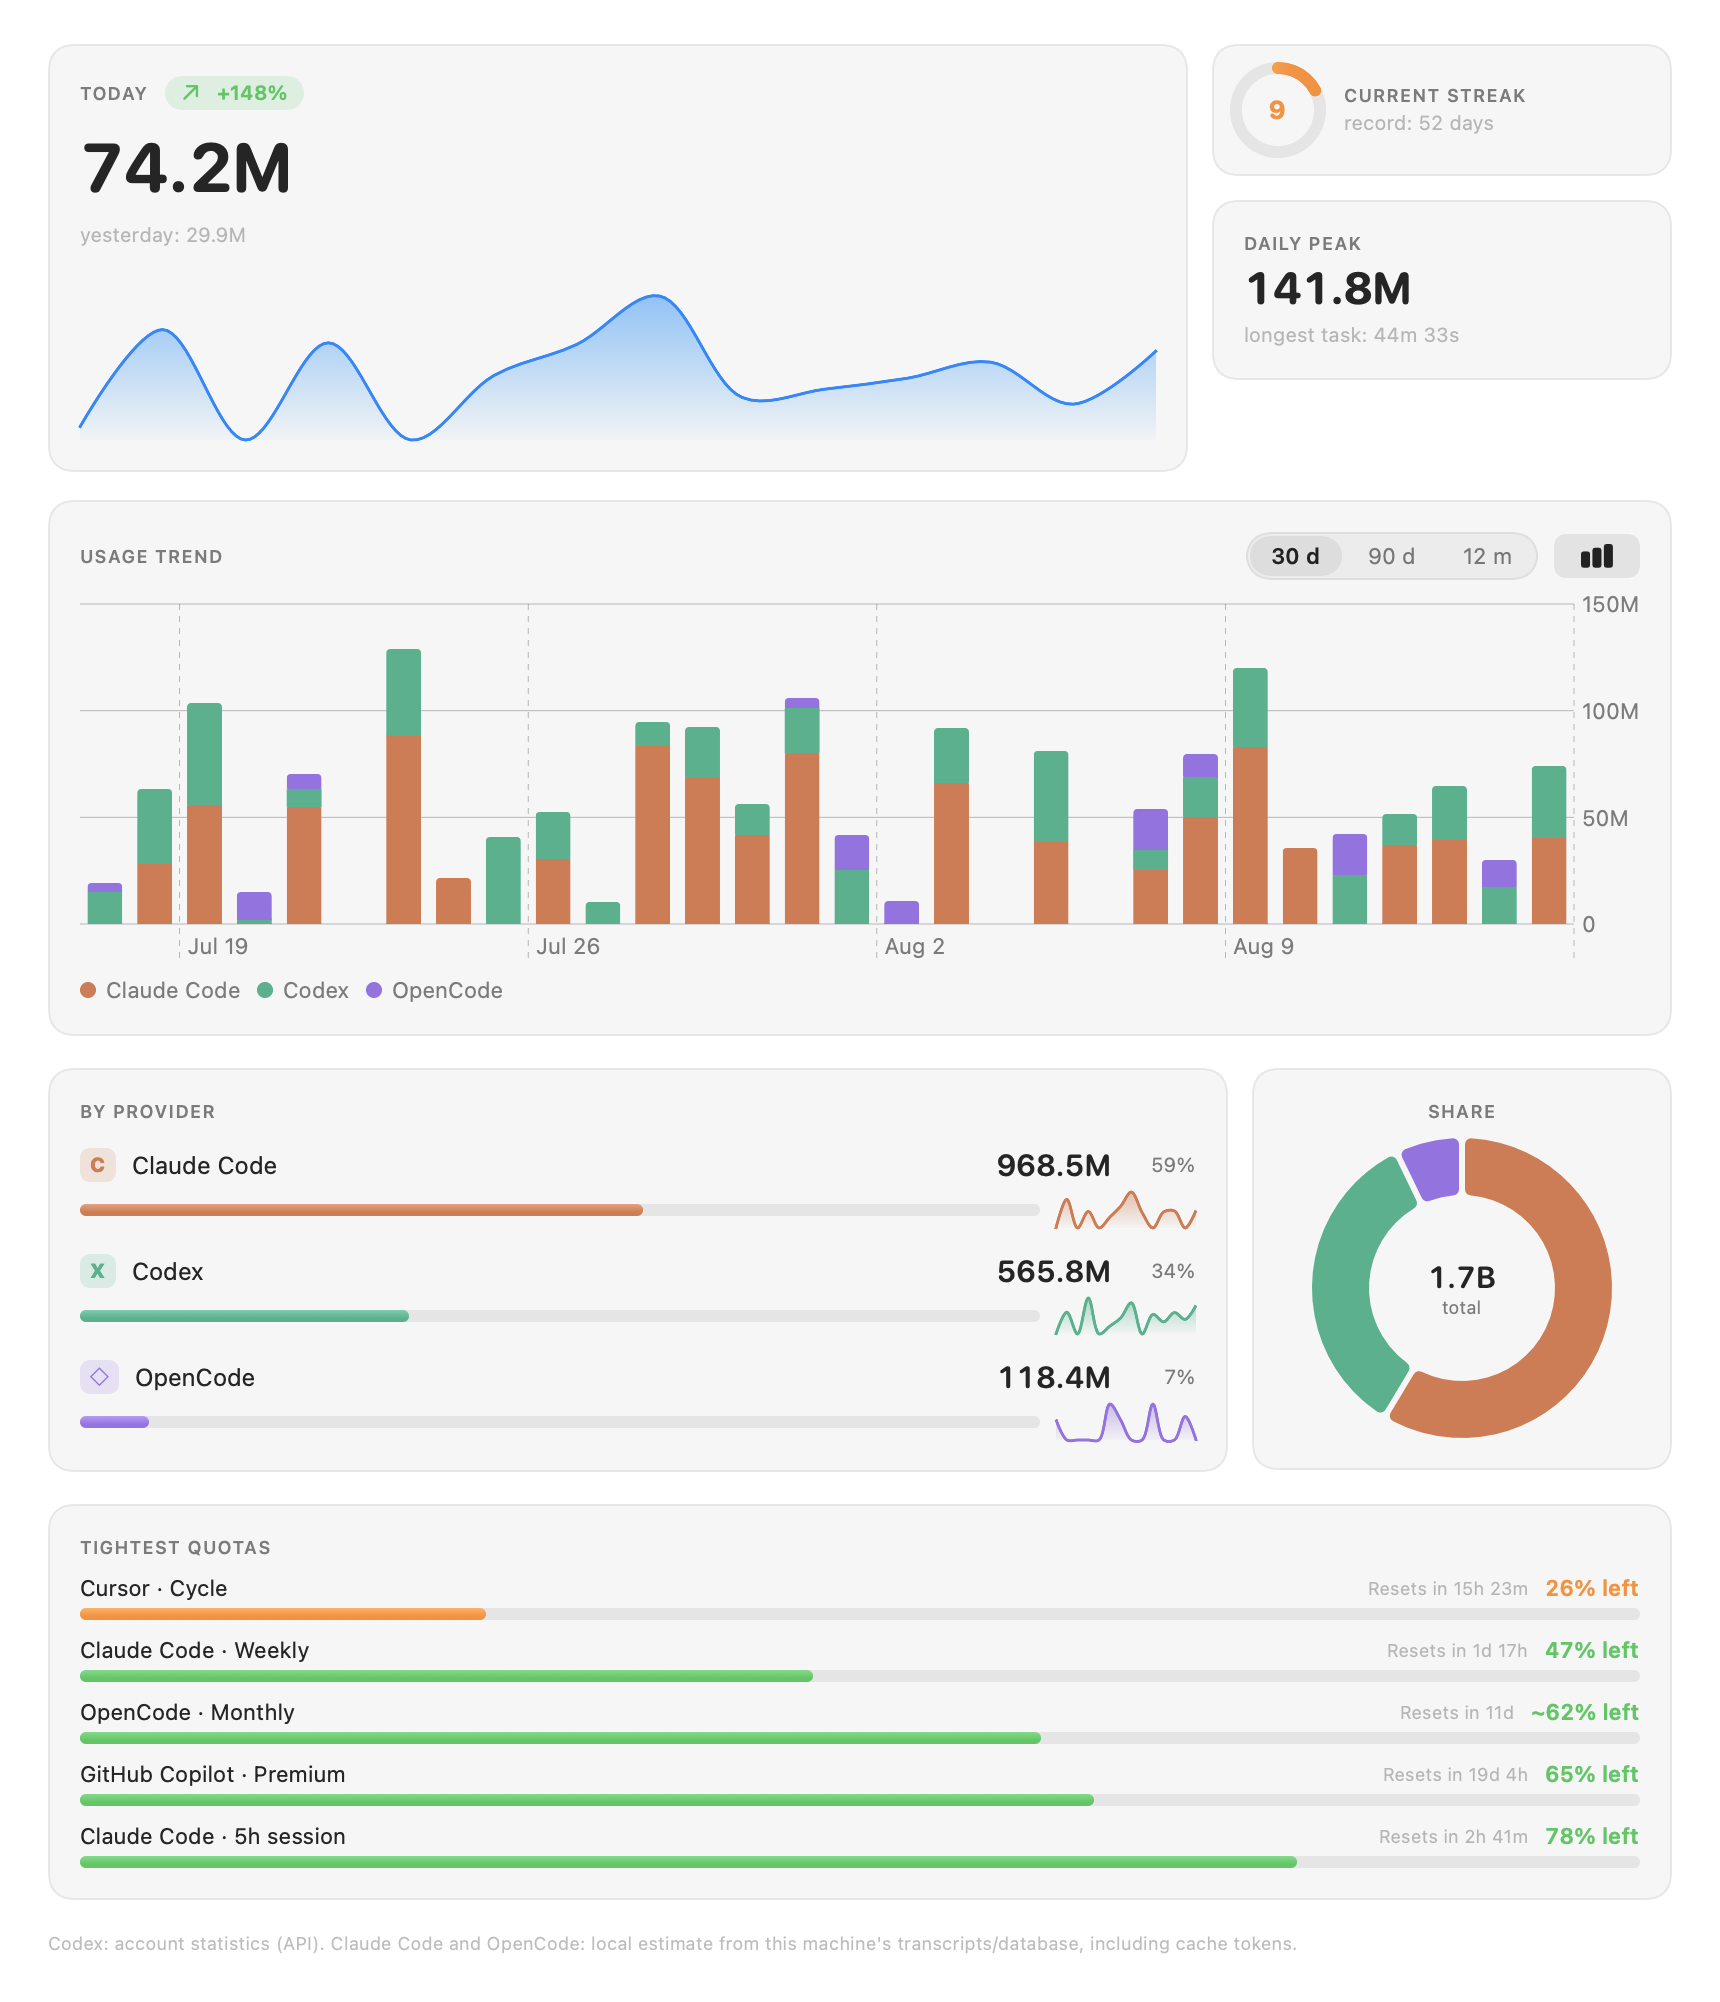
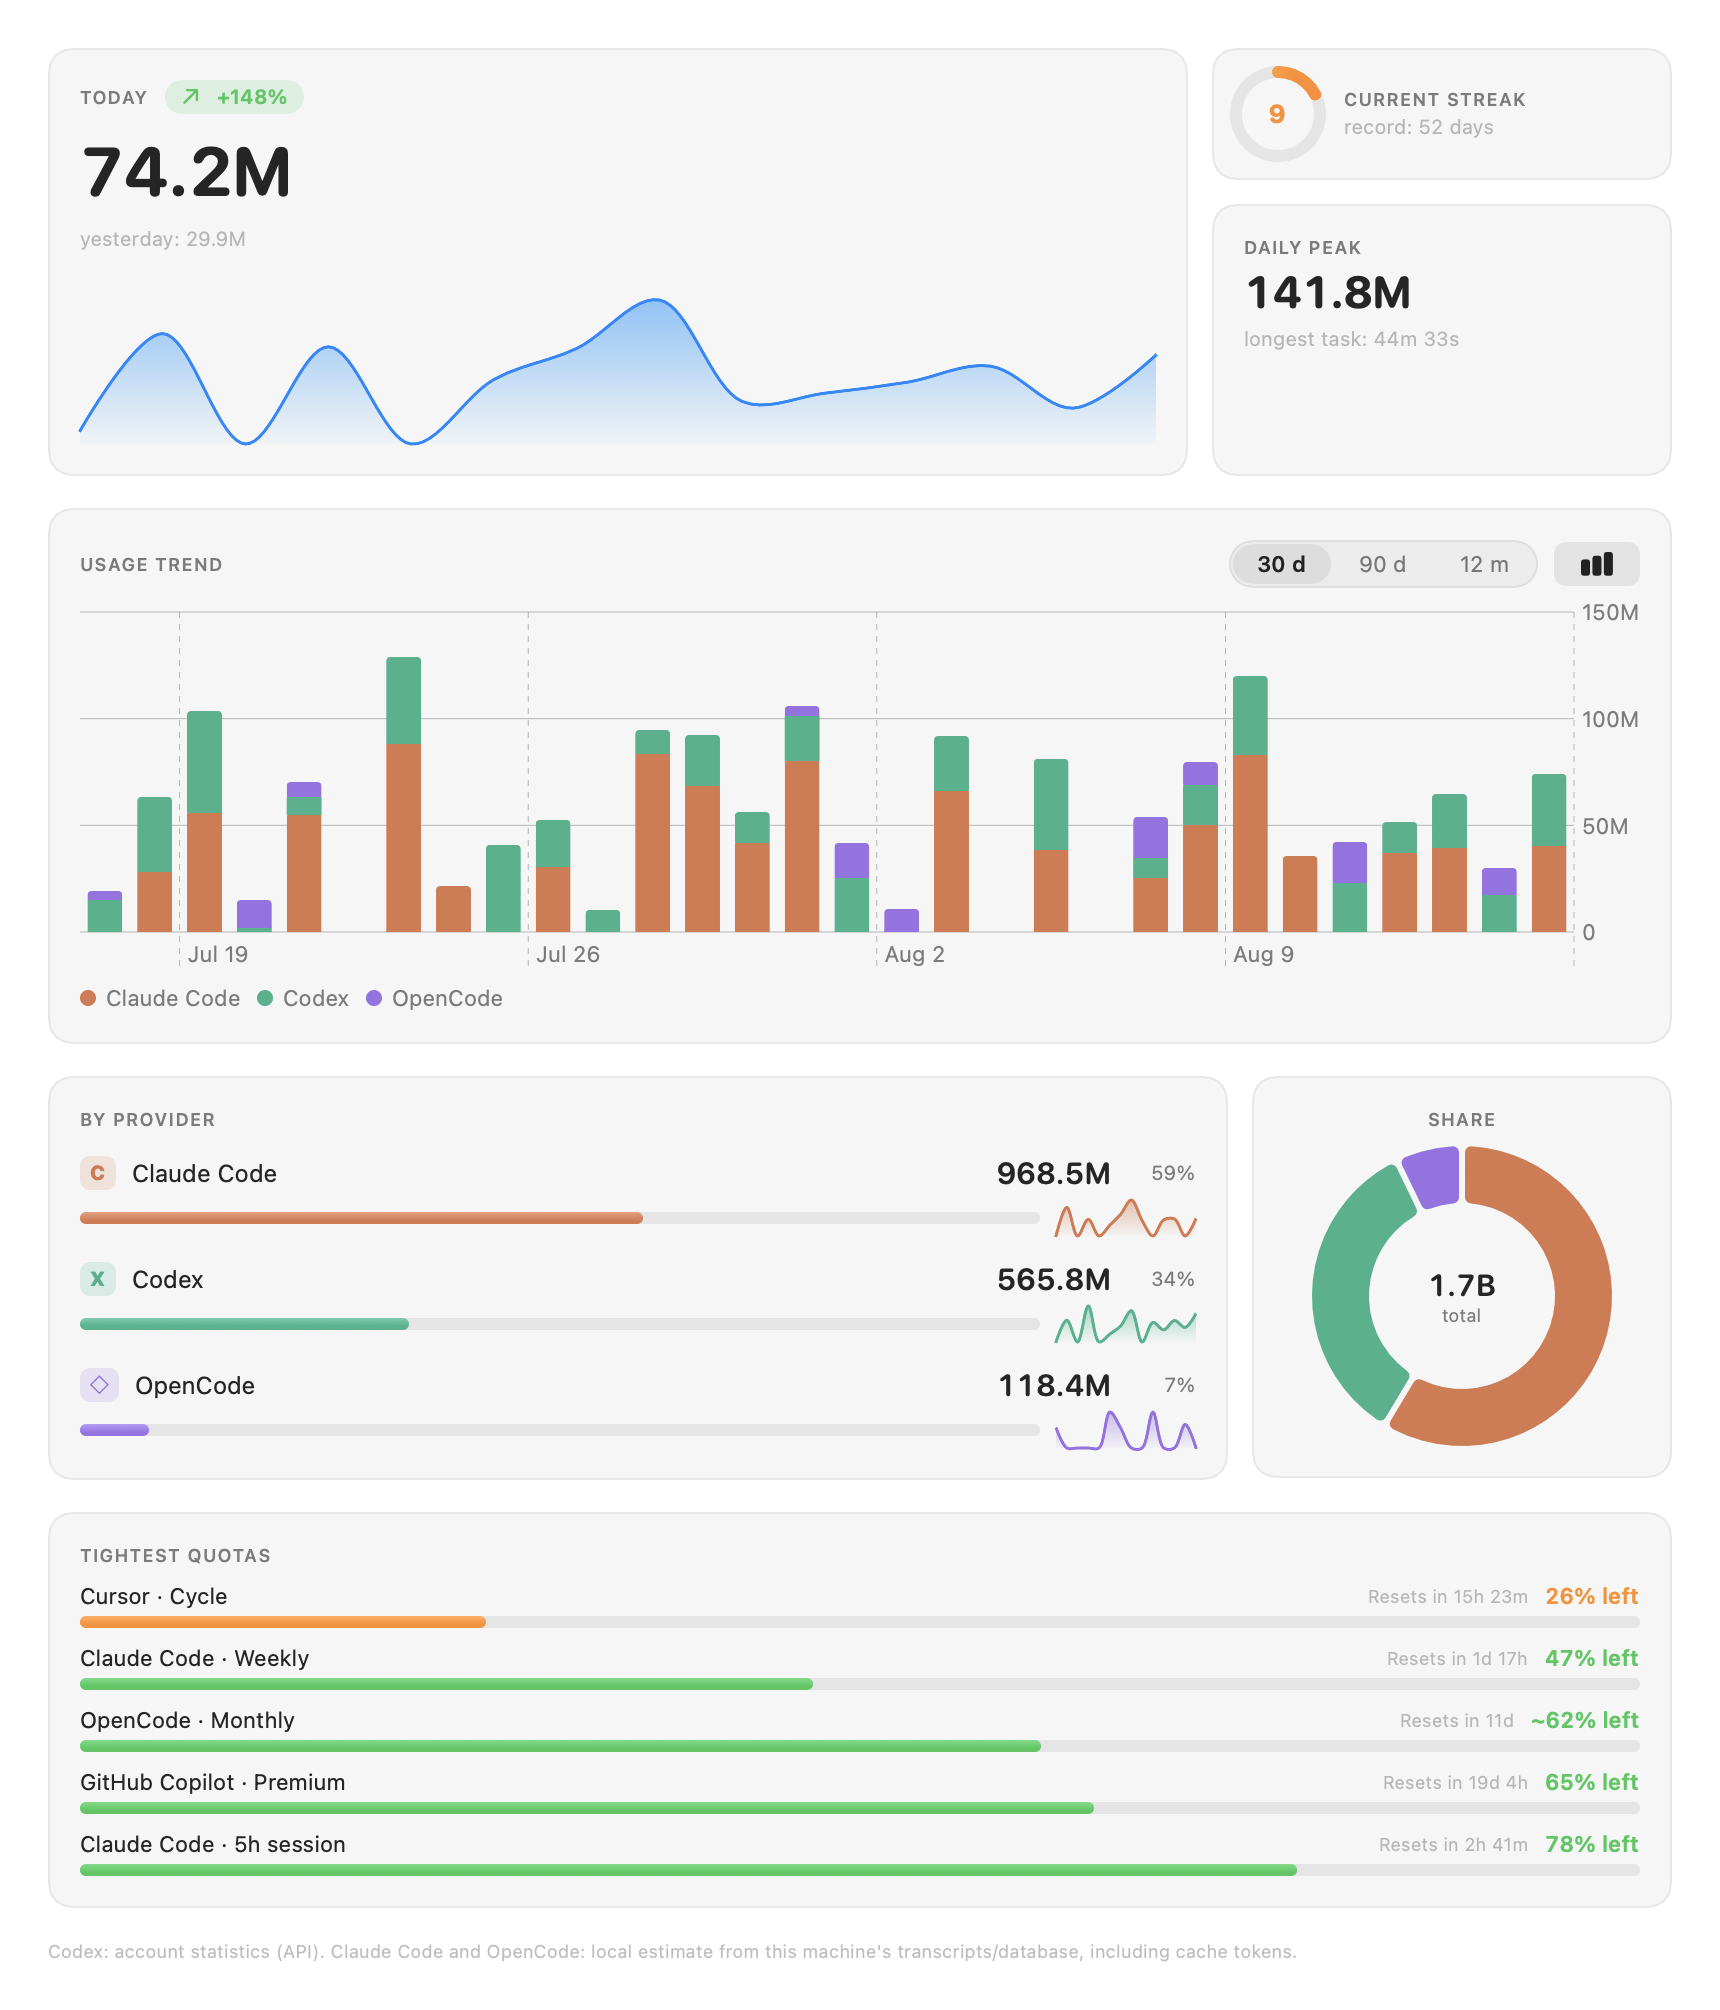
fix(ui): herói alinha por dentro do card e o segmentado volta a ser nativo
Revisão de qualidade da Task 8, três achados.

1. O vão de 46 pt sob a coluna direita do herói não era falta de altura: o
   .frame(maxHeight: .infinity) estava POR FORA do StatTile, que já pintou o
   .background no tamanho ideal. StatTile ganha `fillsHeight`, aplicado antes
   do background; default false não mexe em nenhum outro uso.

2. Apagado `heroHeight = 210` e o .frame(height:) — é o mesmo padrão de altura
   fixa que o dono rejeitou na Task 7, e nem resolvia o desalinhamento. O
   comentário que atribuía a causa à "proposta nula" era falso e saiu junto.

3. Picker(.segmented) nativo de volta ao app: semântica de seleção no VoiceOver,
   navegação por setas e estilo do sistema. O ImageRenderer não desenha controles
   AppKit, então o desvio foi para o harness — EnvironmentKey \.isStaticRender,
   default false, que só o ReadmeAssetRenderer liga.

Menores: substituto do segmentado sem largura fixa, com lineLimit e
minimumScaleFactor; accessibilityLabel no toggle do heatmap.

Medido no PNG (2x): antes, esquerda 44…471 e direita 200…379 (92 px de vão);
depois, ambas terminam em 475. Só analytics.png mudou.

diff --git a/Sources/OkTally/UI/AnalyticsDashboardView.swift b/Sources/OkTally/UI/AnalyticsDashboardView.swift
@@ -10,11 +10,7 @@ struct AnalyticsDashboardView: View {
     @State private var window: TrendWindow = .days30
     @State private var showsHeatmap = false
 
-    /// Altura da linha-herói. Precisa ser explícita: sem altura proposta, as duas colunas
-    /// se dimensionam pelo ideal de cada uma, a da direita fica mais baixa que a do
-    /// gráfico e sobra um buraco no canto — `maxHeight: .infinity` não estica dentro de
-    /// uma proposta nula.
-    private let heroHeight: CGFloat = 210
+    @Environment(\.isStaticRender) private var isStaticRender
 
     private var byProvider: [String: TokenAnalytics] {
         appModel.analyticsByProvider
@@ -112,16 +108,18 @@ struct AnalyticsDashboardView: View {
                         Spacer(minLength: 0)
                     }
                 }
+                // O card grande da esquerda dita a altura da linha; o tile de pico
+                // estica por dentro (`fillsHeight`) para as duas colunas terminarem na
+                // mesma linha, sem ninguém fixar altura.
                 StatTile(
                     title: L("Pico diário"),
                     value: analytics.effectivePeakDailyTokens.map(TokenAnalytics.compactTokens) ?? "—",
-                    caption: analytics.longestRunningTurnSeconds.map { LF("tarefa mais longa: %@", TokenAnalytics.durationLabel($0)) }
+                    caption: analytics.longestRunningTurnSeconds.map { LF("tarefa mais longa: %@", TokenAnalytics.durationLabel($0)) },
+                    fillsHeight: true
                 )
-                .frame(maxHeight: .infinity, alignment: .topLeading)
             }
             .frame(width: 230)
         }
-        .frame(height: heroHeight)
     }
 
     // MARK: - Linha 2: tendência
@@ -139,6 +137,7 @@ struct AnalyticsDashboardView: View {
                     }
                     .toggleStyle(.button)
                     .help(showsHeatmap ? L("Ver como barras") : L("Ver como heatmap"))
+                    .accessibilityLabel(showsHeatmap ? L("Ver como barras") : L("Ver como heatmap"))
                 }
                 if showsHeatmap, let aggregated {
                     TokenHeatmapView(analytics: aggregated)
@@ -152,25 +151,41 @@ struct AnalyticsDashboardView: View {
         }
     }
 
-    /// Segmentado próprio em vez de `Picker(.segmented)`: o controle do AppKit não sai no
-    /// `ImageRenderer` (vira um retângulo amarelo com o símbolo de proibido nos PNGs do
-    /// README) e o estilo nativo destoa das cápsulas do resto do painel.
+    /// Segmentado nativo: é ele que dá semântica de seleção ao VoiceOver, navegação por
+    /// setas dentro do grupo e o estilo do sistema. O `ImageRenderer` não sabe desenhar
+    /// controles do AppKit, então — e só então — cai num substituto estático; o problema
+    /// é do harness de render, não do produto.
+    @ViewBuilder
     private var windowPicker: some View {
+        if isStaticRender {
+            staticWindowPicker
+        } else {
+            Picker("", selection: $window) {
+                ForEach(TrendWindow.allCases, id: \.self) { Text($0.label).tag($0) }
+            }
+            .pickerStyle(.segmented)
+            .labelsHidden()
+            .frame(width: 190)
+        }
+    }
+
+    /// Desenho equivalente do segmentado, sem interação — existe apenas para os PNGs.
+    private var staticWindowPicker: some View {
         HStack(spacing: 2) {
             ForEach(TrendWindow.allCases, id: \.self) { option in
                 let selected = option == window
-                Button { window = option } label: {
-                    Text(option.label)
-                        .font(.system(size: 11, weight: selected ? .semibold : .regular))
-                        .foregroundStyle(selected ? Color.primary : Color.secondary)
-                        .frame(width: 46, height: 20)
-                        .background {
-                            if selected {
-                                Capsule().fill(Theme.surfaceRaised())
-                            }
+                Text(option.label)
+                    .font(.system(size: 11, weight: selected ? .semibold : .regular))
+                    .foregroundStyle(selected ? Color.primary : Color.secondary)
+                    .lineLimit(1)
+                    .minimumScaleFactor(0.7)
+                    .padding(.horizontal, Theme.Space.md)
+                    .frame(height: 20)
+                    .background {
+                        if selected {
+                            Capsule().fill(Theme.surfaceRaised())
                         }
-                }
-                .buttonStyle(.plain)
+                    }
             }
         }
         .padding(2)

diff --git a/Sources/OkTally/UI/DesignSystem/Components.swift b/Sources/OkTally/UI/DesignSystem/Components.swift
@@ -24,6 +24,12 @@ struct StatTile: View {
     var caption: String?
     var tint: Color = .accentColor
     var emphasis: Emphasis = .regular
+    /// Faz o tile ocupar toda a altura oferecida, com o conteúdo ancorado no topo. É
+    /// preciso ser opção interna: um `.frame(maxHeight: .infinity)` aplicado por fora
+    /// cresce o frame mas não o `.background`, que já foi desenhado no tamanho ideal —
+    /// o card fica pequeno dentro de uma caixa grande. Colunas de bento usam isto para
+    /// terminar na mesma linha que o card vizinho.
+    var fillsHeight: Bool = false
 
     var body: some View {
         VStack(alignment: .leading, spacing: Theme.Space.xs) {
@@ -42,7 +48,7 @@ struct StatTile: View {
             }
         }
         .padding(Theme.Space.lg)
-        .frame(maxWidth: .infinity, alignment: .leading)
+        .frame(maxWidth: .infinity, maxHeight: fillsHeight ? .infinity : nil, alignment: .topLeading)
         .background {
             let shape = RoundedRectangle(cornerRadius: Theme.Radius.medium, style: .continuous)
             switch emphasis {

diff --git a/Sources/OkTally/UI/DesignSystem/StaticRender.swift b/Sources/OkTally/UI/DesignSystem/StaticRender.swift
@@ -1,0 +1,22 @@
+// Sources/OkTally/UI/DesignSystem/StaticRender.swift
+import SwiftUI
+
+/// Sinaliza que a árvore está sendo desenhada por `ImageRenderer` (os PNGs de
+/// `docs/assets`), e não numa janela viva. Controles do AppKit não têm representação
+/// nesse caminho — `Picker(.segmented)`, por exemplo, sai como um retângulo amarelo com
+/// o símbolo de proibido. Quem depende de um controle desses desenha um substituto
+/// estático quando a flag está ligada.
+///
+/// Só o harness de render liga isto. O app nunca liga, então o usuário continua com o
+/// controle nativo: semântica de seleção para o VoiceOver, navegação por setas dentro do
+/// grupo e o estilo do sistema.
+private struct StaticRenderKey: EnvironmentKey {
+    static let defaultValue = false
+}
+
+extension EnvironmentValues {
+    var isStaticRender: Bool {
+        get { self[StaticRenderKey.self] }
+        set { self[StaticRenderKey.self] = newValue }
+    }
+}

diff --git a/Tests/OkTallyTests/ReadmeAssetRenderer.swift b/Tests/OkTallyTests/ReadmeAssetRenderer.swift
@@ -38,7 +38,11 @@ final class ReadmeAssetRenderer: XCTestCase {
                     .frame(width: 760)
                     .background(Color(nsColor: .windowBackgroundColor)),
                   to: "overview.png")
+        // `isStaticRender` troca só os controles do AppKit por um desenho equivalente:
+        // o `ImageRenderer` não sabe desenhá-los e o PNG sairia com um retângulo amarelo
+        // no lugar do seletor de janela. O app não liga essa flag.
         try write(view: AnalyticsDashboardView(appModel: model)
+                    .environment(\.isStaticRender, true)
                     .padding(24)
                     .frame(width: 860)
                     .background(Color(nsColor: .windowBackgroundColor)),
